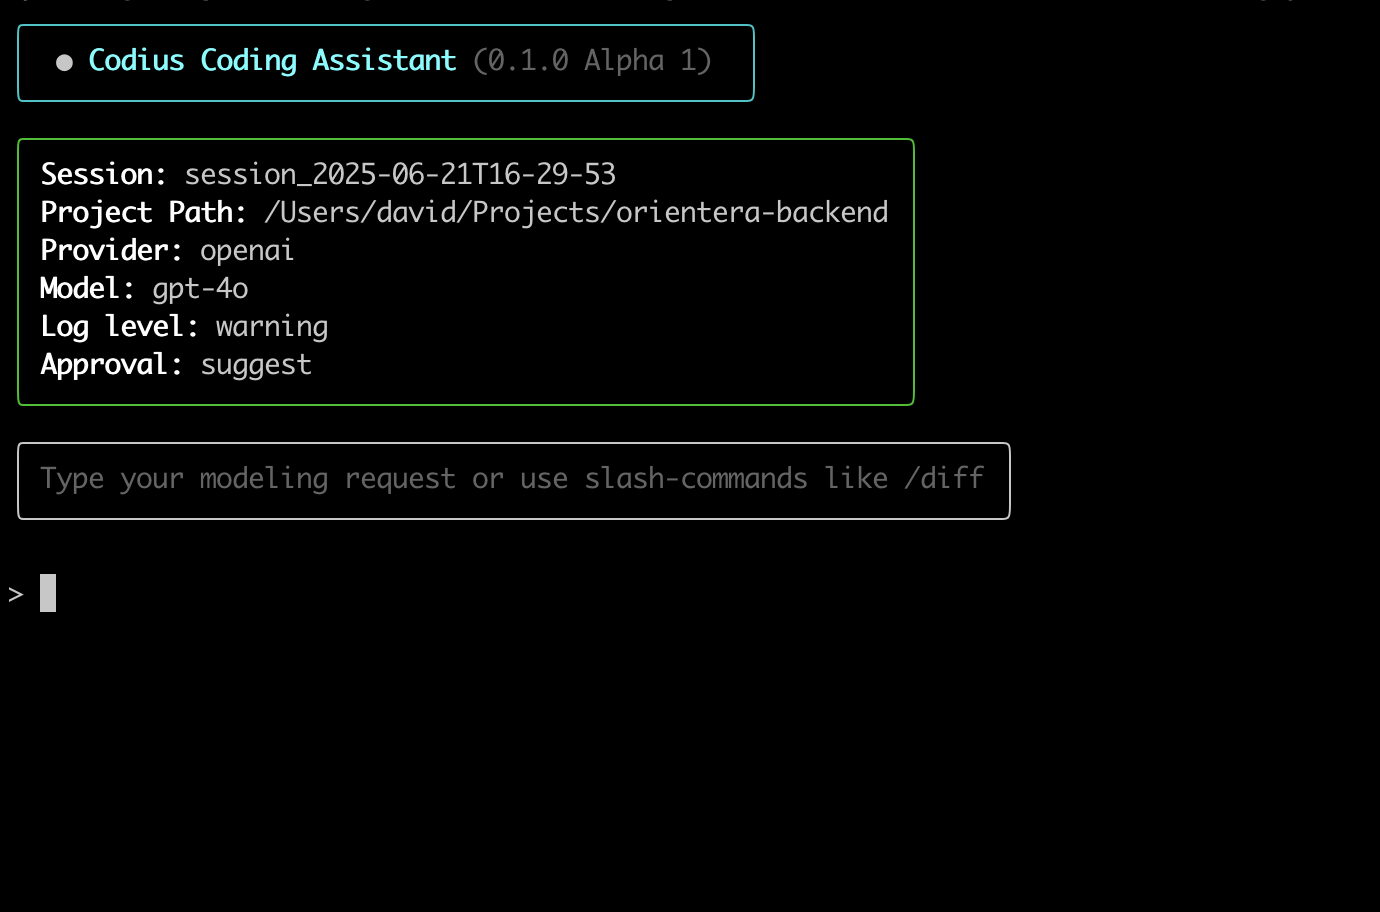
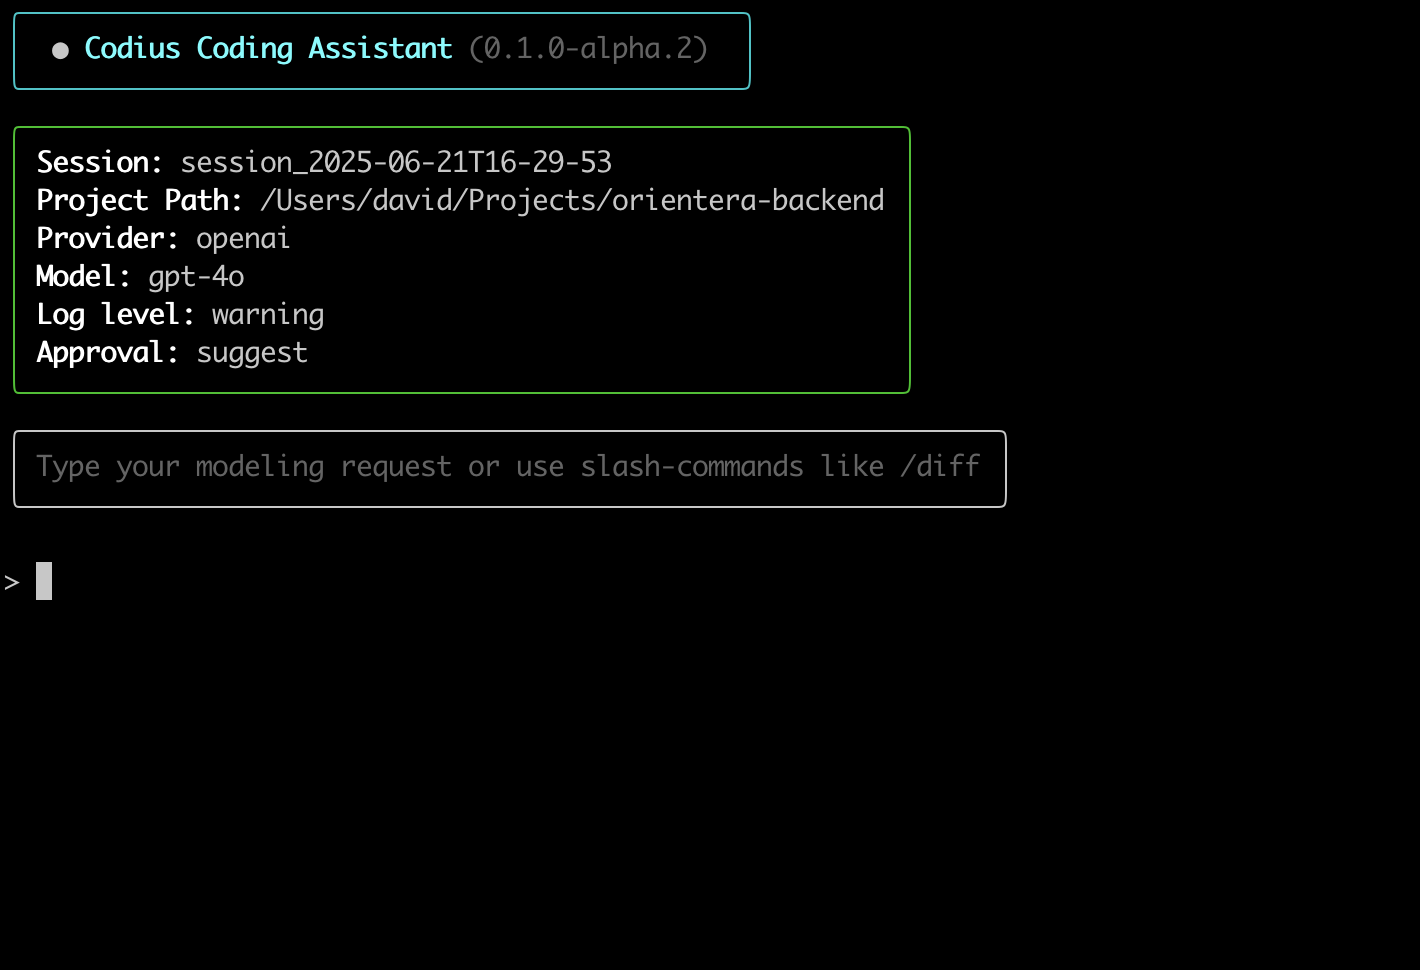
Do some refactoring.

Changed region(s): [[0.0, 0.0, 0.7167, 0.5526], [0.0, 0.5833, 0.0623, 0.6754]]

diff --git a/src/main.py b/src/main.py
@@ -1,5 +1,4 @@
 import argparse
-import re
 
 from pathlib import Path
 
@@ -9,8 +8,7 @@ from ui.shell import run_shell
 from domain.services.session_service import SessionService
 from infrastructure.services.logging_service import LoggingService
 from infrastructure.services.project_initializer_service import ProjectInitializerService
-
-CODIUS_VERSION = "0.1.0-alpha.1"
+from utils import get_version_from_setup
 
 
 def main():
@@ -54,15 +52,6 @@ def main():
 
     # Run the assistant
     run_shell()
-
-
-def get_version_from_setup():
-    with open("setup.py", encoding="utf-8") as f:
-        content = f.read()
-    match = re.search(r"version\s*=\s*[\"']([^\"']+)[\"']", content)
-    if match:
-        return match.group(1)
-    raise RuntimeError("Version not found in setup.py")
 
 
 if __name__ == "__main__":

diff --git a/src/ui/shell.py b/src/ui/shell.py
@@ -12,6 +12,7 @@ from infrastructure.services.graph_service import GraphService
 
 from infrastructure.services.project_metadata_service import ProjectMetadataService
 from ui.slash_commands import SLASH_COMMANDS, handle_slash_command
+from utils import get_version_from_setup
 
 console = Console()
 slash_completer = WordCompleter(SLASH_COMMANDS.keys(), sentence=True)
@@ -24,9 +25,10 @@ def _(event):
 
 
 def render_header():
+    version = get_version_from_setup()
     console.print(
         Panel.fit(
-            "● [bold cyan]Codius Coding Assistant[/bold cyan] [dim](0.1.0 Alpha 1)[/dim]",
+            f"● [bold cyan]Codius Coding Assistant[/bold cyan] [dim]({version})[/dim]",
             padding=(0, 2),
             border_style="cyan",
         )

diff --git a/src/utils.py b/src/utils.py
@@ -1,3 +1,4 @@
+import re
 from datetime import datetime
 from dateutil import parser
 from dateutil.relativedelta import relativedelta
@@ -26,3 +27,12 @@ def print_highlighted(text: str, title: str = "Output"):
     print('-' * 40)
     print(text)
     print("=" * 40 + "\033[0m\n")
+
+
+def get_version_from_setup():
+    with open("setup.py", encoding="utf-8") as f:
+        content = f.read()
+    match = re.search(r"version\s*=\s*[\"']([^\"']+)[\"']", content)
+    if match:
+        return match.group(1)
+    raise RuntimeError("Version not found in setup.py")

diff --git a/setup.py b/setup.py
@@ -2,7 +2,7 @@ from setuptools import setup, find_packages
 
 setup(
     name='codius',
-    version='0.1.0-alpha.1',
+    version='0.1.0-alpha.2',
     package_dir={'': 'src'},
     packages=find_packages(where='src'),
     include_package_data=True,
